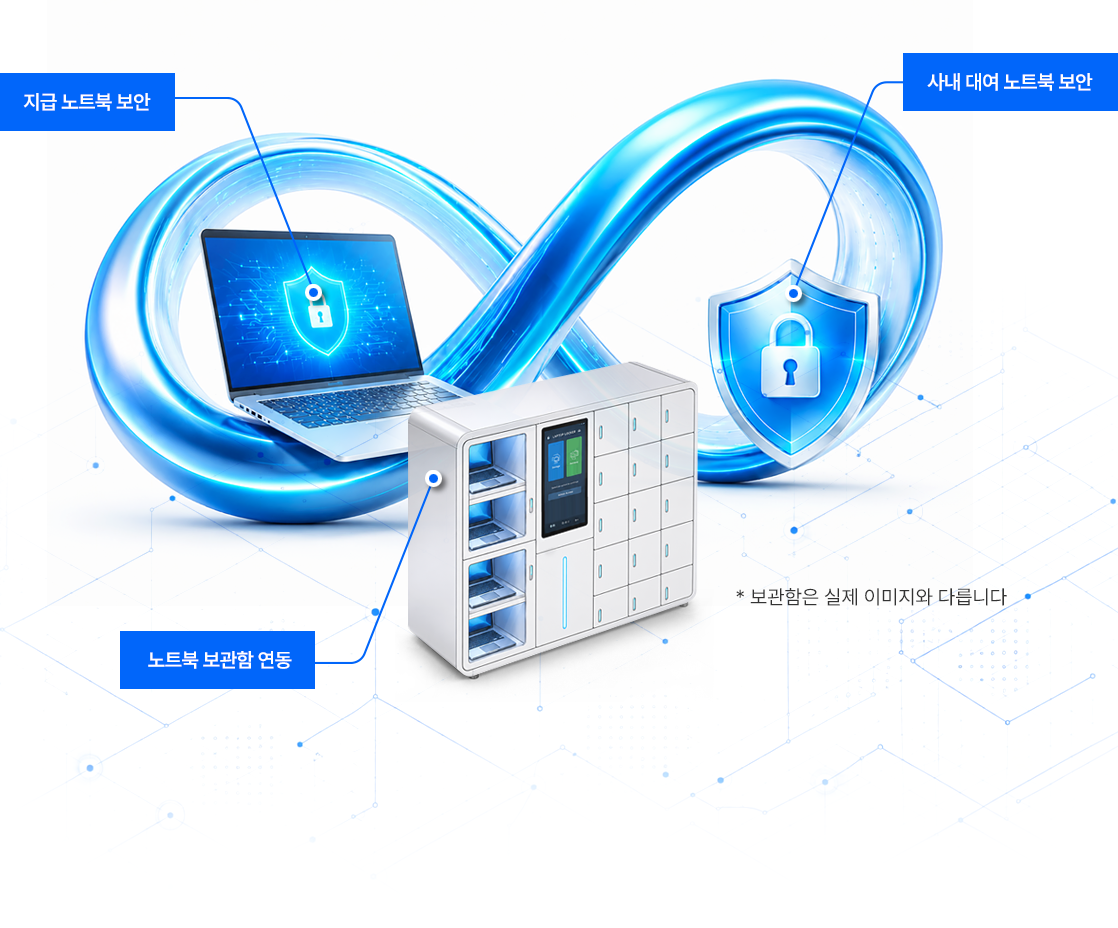
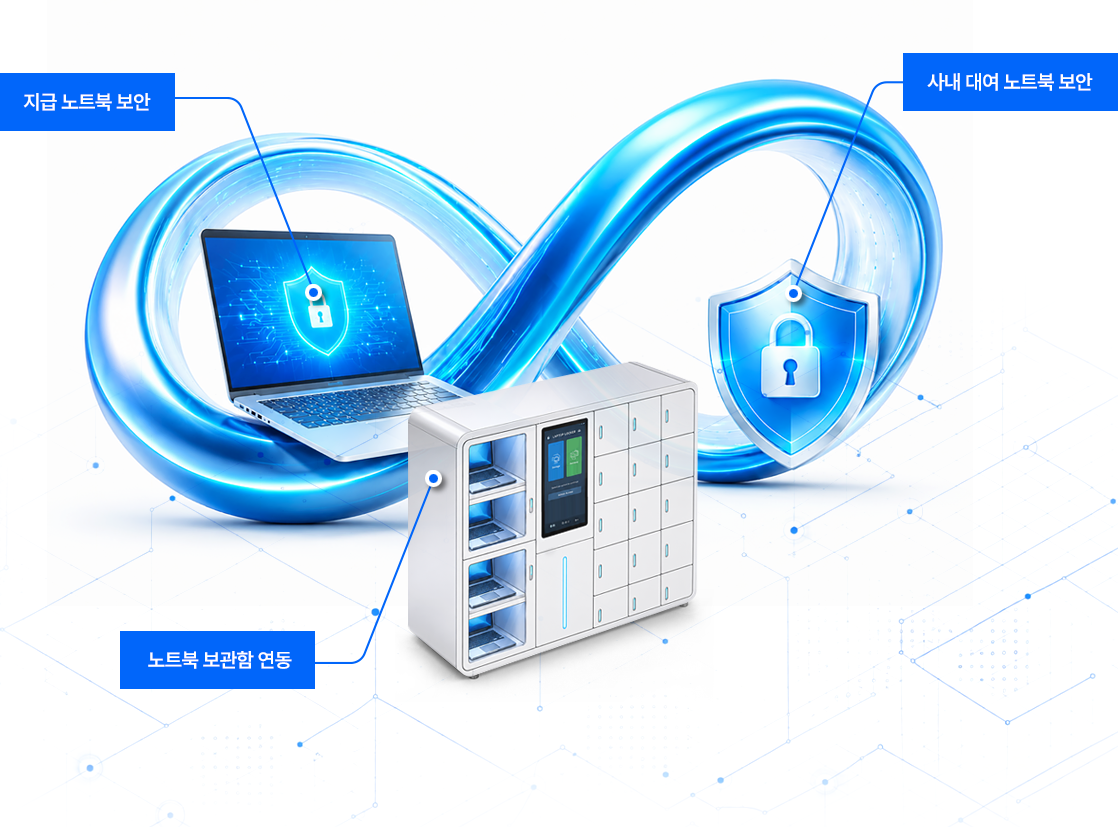
style: LNB 최대 너비 확장 및 DPT-i 제품 이미지 안내 문구 추가

diff --git a/apps/src/assets/css/style.css b/apps/src/assets/css/style.css
@@ -494,7 +494,7 @@ span.br { display:block }
 #sub .visual.request { position:relative; height:40.5rem; background:url('../images/sub_banner_request@2x.png') 50% 50% no-repeat; background-size:cover }
 
 #sub .lnb { width:100%; height:6rem; background:#fff; border-bottom:1px solid #dbdbdb; position:relative; top:0; left:0; z-index:999 }
-#sub .lnb_wrap { position:relative;  max-width:119rem; margin:0 auto; line-height:6rem; }
+#sub .lnb_wrap { position:relative;  max-width:140rem; margin:0 auto; line-height:6rem; padding:0 2rem; }
 #sub .lnb ul { display:flex; align-items:center; position:relative; z-index:2; border-left:1px solid #ddd }
 #sub .lnb ul:after { clear:both; display:block; content:"" }
 #sub .lnb ul li { position:relative; width:18.5rem; text-align:center; border-right:1px solid #ddd }
@@ -844,7 +844,7 @@ span.br { display:block }
 
 
 	#sub .lnb { width:100%; height:6rem; background:#fff; border-bottom:1px solid #dbdbdb; position:relative; top:0; left:0; z-index:999 }
-	#sub .lnb_wrap { position:relative;  max-width:119rem; margin:0 auto; line-height:6rem; }
+	#sub .lnb_wrap { position:relative;  max-width:140rem; margin:0 auto; line-height:6rem; }
 	#sub .lnb ul { display:flex; align-items:center; position:relative; z-index:2; border-left:1px solid #ddd }
 	#sub .lnb ul:after { clear:both; display:block; content:"" }
 	#sub .lnb ul li { position:relative; width:18.5rem; text-align:center; border-right:1px solid #ddd }
@@ -953,7 +953,7 @@ span.br { display:block }
 	#sub .visual.request { position:relative; height:22rem; background:url('../images/sub_banner_request.jpg') 50% 50% no-repeat; background-size:cover }
 
 	#sub .lnb { width:100%; height:auto; background:#fff; border-bottom:1px solid #dbdbdb; position:relative; top:0; left:0; z-index:999 }
-	#sub .lnb_wrap { position:relative;  max-width:119rem; margin:0 auto; line-height:5.5rem; }
+	#sub .lnb_wrap { position:relative;  max-width:140rem; margin:0 auto; line-height:5.5rem; padding:0; }
 	#sub .lnb ul { flex-wrap:wrap; display:flex; align-items:center; position:relative; z-index:2; border-left:1px solid #ddd }
 	#sub .lnb ul:after { clear:both; display:block; content:"" }
 	#sub .lnb ul li { position:relative; flex:none; width:50%; text-align:center; border-right:1px solid #ddd }
@@ -1098,7 +1098,7 @@ span.br { display:block }
 	#sub .contetns .section_con.five { margin-top:12rem !important }
 
 	#sub .lnb { width:100%; height:auto; background:#fff; border-bottom:1px solid #dbdbdb; position:relative; top:0; left:0; z-index:999 }
-	#sub .lnb_wrap { position:relative;  max-width:119rem; margin:0 auto; line-height:5.5rem; }
+	#sub .lnb_wrap { position:relative;  max-width:140rem; margin:0 auto; line-height:5.5rem; }
 	#sub .lnb ul { flex-wrap:wrap; display:flex; align-items:center; position:relative; z-index:2; border-left:1px solid #ddd }
 	#sub .lnb ul:after { clear:both; display:block; content:"" }
 	#sub .lnb ul li { position:relative; flex:none; width:50%; text-align:center; border-right:1px solid #ddd }
@@ -1203,7 +1203,7 @@ span.br { display:block }
 	#sub .contetns .section_con.five { margin-top:12rem !important }
 
 	#sub .lnb { width:100%; height:auto; background:#fff; border-bottom:1px solid #dbdbdb; position:relative; top:0; left:0; z-index:999 }
-	#sub .lnb_wrap { position:relative;  max-width:119rem; margin:0 auto; line-height:5.5rem; }
+	#sub .lnb_wrap { position:relative;  max-width:140rem; margin:0 auto; line-height:5.5rem; }
 	#sub .lnb ul { flex-wrap:wrap; display:flex; align-items:center; position:relative; z-index:2; border-left:1px solid #ddd }
 	#sub .lnb ul:after { clear:both; display:block; content:"" }
 	#sub .lnb ul li { position:relative; flex:none; width:50%; text-align:center; border-right:1px solid #ddd }
@@ -2496,6 +2496,8 @@ span.br { display:block }
 
 }
 
+#sub .contetns.prd .relative { position:relative; }
+#sub .contetns.prd .relative .txt { position:absolute; right:15rem; bottom:22rem; font-size:2rem; font-weight:400; color:#333; }
 #sub .contetns.prd .max-width { max-width:123.5rem; }
 /* ===== ?�품?�개 공통 img2.bg ===== */
 #sub .contetns.prd .img2.bg { max-width:123.5rem; margin:6rem 0 0; padding:0 0 10rem; background:url('../images/img_dpt_8_bg.png') center 15rem/contain no-repeat; }
@@ -2515,6 +2517,7 @@ span.br { display:block }
 }
 
 @media all and (max-width:1023px) {
+    #sub .contetns.prd .relative .txt { position:relative; right:0; bottom:0; font-size:1.5rem; font-weight:400; color:#333; margin:0 0 4rem; text-align:right; }
 	#sub .contetns.prd.NewDpt .work { flex-direction:column; }
 	#sub .contetns.prd.NewDpt .work .imgCon { width:100%; margin:0 0 3rem; }
     #sub .contetns.prd.NewDpt .work .imgCon img { width:100%; }

diff --git a/apps/src/pages/product/DptI.tsx b/apps/src/pages/product/DptI.tsx
@@ -102,7 +102,10 @@ function ProductDptI() {
                     기업 노트북의 대여, 사용, 반납, 초기화 및 완전삭제 등의 전 과정을 안전하고 체계적으로 관리합니다.  
                 </p>
                 <div className='max-width' data-reveal data-delay="400">
-                    <img src={prdDptiImg1} alt="" />
+                    <div className='relative'>
+                        <img src={prdDptiImg1} alt="" />
+                        <div className='txt'>* 보관함은 실제 이미지와 다릅니다</div>
+                    </div>
                 </div>
                 <div className='imgCon' data-reveal>
                     <ul>
